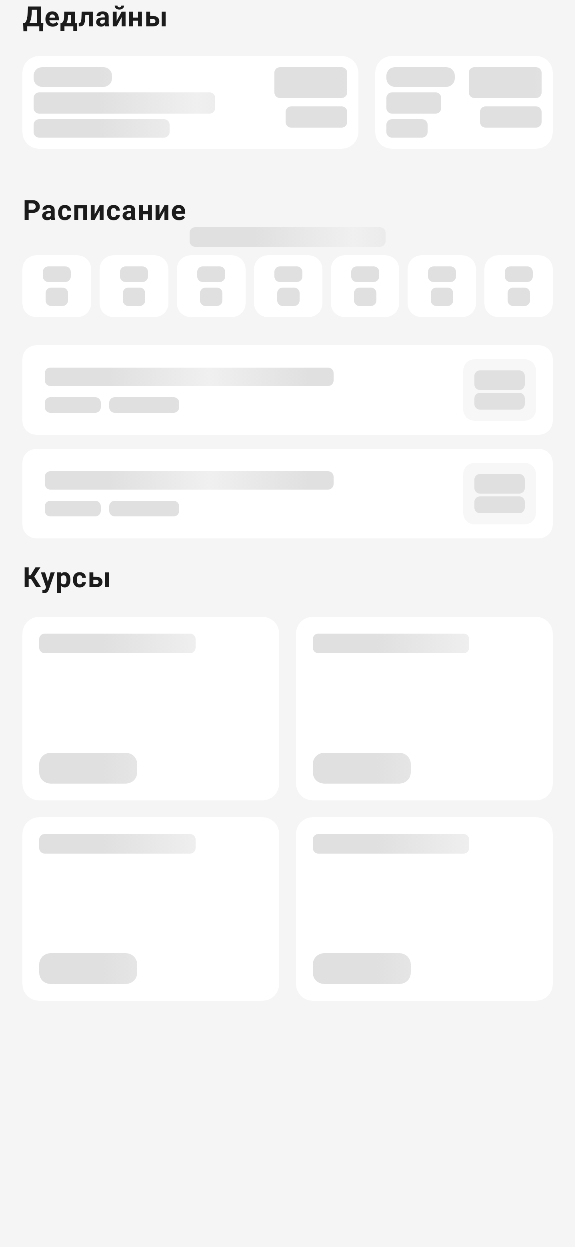
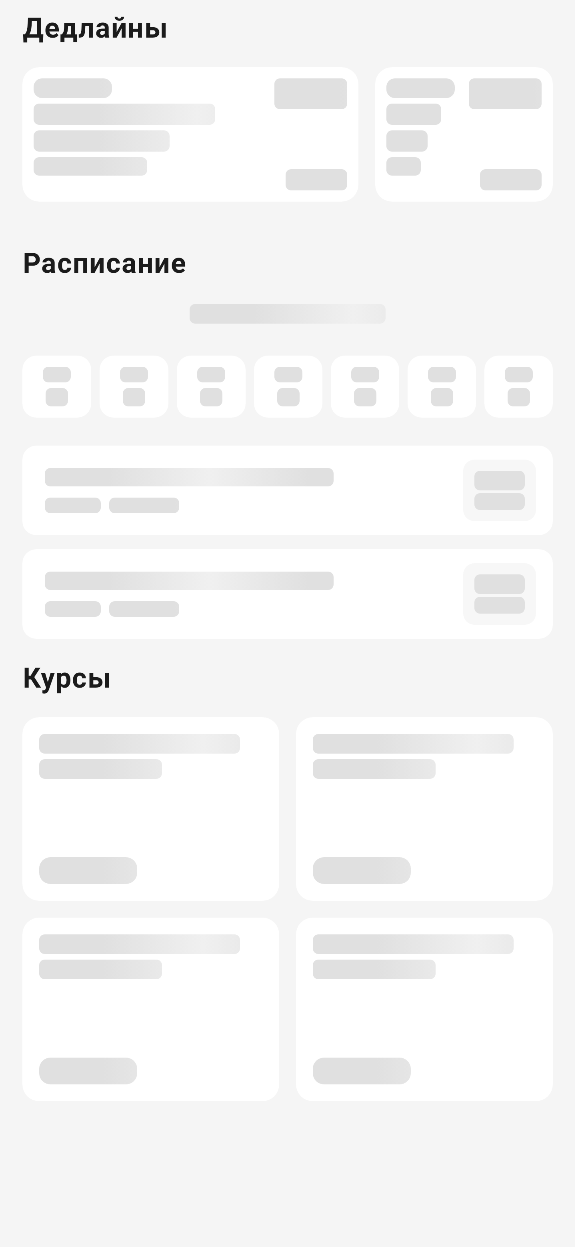
fix skeletons

diff --git a/shared/src/commonMain/kotlin/io/github/kroune/cumobile/presentation/home/ui/HomeSkeletons.kt b/shared/src/commonMain/kotlin/io/github/kroune/cumobile/presentation/home/ui/HomeSkeletons.kt
@@ -5,6 +5,7 @@ import androidx.compose.foundation.layout.Arrangement
 import androidx.compose.foundation.layout.Column
 import androidx.compose.foundation.layout.Row
 import androidx.compose.foundation.layout.Spacer
+import androidx.compose.foundation.layout.fillMaxHeight
 import androidx.compose.foundation.layout.fillMaxWidth
 import androidx.compose.foundation.layout.height
 import androidx.compose.foundation.layout.padding
@@ -21,14 +22,15 @@ import io.github.kroune.cumobile.presentation.common.ui.ShimmerBox
 /**
  * Skeleton placeholder for [DeadlineTaskCard].
  *
- * Matches the N3 layout: 240dp wide, 12dp corner radius, 8dp padding,
- * two columns — left (chip + course + title) and right (time + date).
+ * Fixed height chosen to match a typical filled card (chip + 2-line course + task)
+ * so the deadlines row doesn't jump when data replaces the skeleton.
  */
 @Composable
 internal fun DeadlineTaskCardSkeleton(modifier: Modifier = Modifier) {
     Row(
         modifier = modifier
             .width(240.dp)
+            .height(96.dp)
             .clip(RoundedCornerShape(12.dp))
             .background(AppTheme.colors.surface)
             .padding(8.dp),
@@ -39,11 +41,13 @@ internal fun DeadlineTaskCardSkeleton(modifier: Modifier = Modifier) {
         ) {
             ShimmerBox(Modifier.width(56.dp), height = 14.dp, cornerRadius = 6.dp)
             ShimmerBox(Modifier.fillMaxWidth(0.8f), height = 15.dp)
-            ShimmerBox(Modifier.fillMaxWidth(0.6f), height = 13.dp)
+            ShimmerBox(Modifier.fillMaxWidth(0.6f), height = 15.dp)
+            ShimmerBox(Modifier.fillMaxWidth(0.5f), height = 13.dp)
         }
         Column(
+            modifier = Modifier.fillMaxHeight(),
             horizontalAlignment = Alignment.End,
-            verticalArrangement = Arrangement.spacedBy(6.dp),
+            verticalArrangement = Arrangement.SpaceBetween,
         ) {
             ShimmerBox(Modifier.width(52.dp), height = 22.dp)
             ShimmerBox(Modifier.width(44.dp), height = 15.dp)
@@ -54,8 +58,9 @@ internal fun DeadlineTaskCardSkeleton(modifier: Modifier = Modifier) {
 /**
  * Skeleton placeholder for [CourseCard].
  *
- * Matches: fillMaxWidth, 12dp corner radius, 12dp padding,
- * name line + category chip.
+ * Real card puts course name at top and category chip at bottom via SpaceBetween
+ * inside an aspect-ratio 1.4 box. Two name lines mirror the 2-line maxLines in the
+ * real card, and chip dimensions match the real chip (11sp label + 4dp vertical padding).
  */
 @Composable
 internal fun CourseCardSkeleton(modifier: Modifier = Modifier) {
@@ -67,11 +72,13 @@ internal fun CourseCardSkeleton(modifier: Modifier = Modifier) {
             .padding(12.dp),
         verticalArrangement = Arrangement.SpaceBetween,
     ) {
-        ShimmerBox(Modifier.fillMaxWidth(0.7f), height = 14.dp)
-        Spacer(Modifier.height(8.dp))
+        Column(verticalArrangement = Arrangement.spacedBy(4.dp)) {
+            ShimmerBox(Modifier.fillMaxWidth(0.9f), height = 14.dp)
+            ShimmerBox(Modifier.fillMaxWidth(0.55f), height = 14.dp)
+        }
         ShimmerBox(
             Modifier.width(70.dp),
-            height = 22.dp,
+            height = 19.dp,
             cornerRadius = 8.dp,
         )
     }
@@ -80,7 +87,8 @@ internal fun CourseCardSkeleton(modifier: Modifier = Modifier) {
 /**
  * Skeleton placeholder for the week picker navigation.
  *
- * Matches: navigation header shimmer + 7 day pill shimmers.
+ * Navigation header height matches the real row's 48dp (set by Material3 IconButton's
+ * minimum interactive size) so the schedule doesn't shift down when controls render.
  */
 @Composable
 internal fun WeekPickerSkeleton(modifier: Modifier = Modifier) {
@@ -89,9 +97,9 @@ internal fun WeekPickerSkeleton(modifier: Modifier = Modifier) {
             .fillMaxWidth()
             .padding(horizontal = 16.dp),
     ) {
-        // Navigation header
         Row(
-            modifier = Modifier.fillMaxWidth(),
+            modifier = Modifier.fillMaxWidth().height(48.dp),
+            verticalAlignment = Alignment.CenterVertically,
             horizontalArrangement = Arrangement.Center,
         ) {
             ShimmerBox(Modifier.width(140.dp), height = 14.dp)
@@ -99,7 +107,6 @@ internal fun WeekPickerSkeleton(modifier: Modifier = Modifier) {
 
         Spacer(Modifier.height(6.dp))
 
-        // Day pills row
         Row(
             modifier = Modifier.fillMaxWidth(),
             horizontalArrangement = Arrangement.spacedBy(6.dp),
@@ -112,7 +119,7 @@ internal fun WeekPickerSkeleton(modifier: Modifier = Modifier) {
                         .background(AppTheme.colors.surface)
                         .padding(vertical = 8.dp),
                     horizontalAlignment = Alignment.CenterHorizontally,
-                    verticalArrangement = Arrangement.spacedBy(4.dp),
+                    verticalArrangement = Arrangement.spacedBy(4.dp, Alignment.CenterVertically),
                 ) {
                     ShimmerBox(Modifier.width(20.dp), height = 11.dp)
                     ShimmerBox(Modifier.width(16.dp), height = 13.dp)

diff --git a/shared/src/commonMain/kotlin/io/github/kroune/cumobile/presentation/home/ui/HomeScreen.kt b/shared/src/commonMain/kotlin/io/github/kroune/cumobile/presentation/home/ui/HomeScreen.kt
@@ -419,8 +419,11 @@ internal fun HomeScreenSkeleton(modifier: Modifier = Modifier) {
             .background(AppTheme.colors.background)
             .verticalScroll(rememberScrollState()),
     ) {
-        // Deadlines section
-        SectionHeader(title = "Дедлайны", count = 0)
+        SectionHeader(
+            title = "Дедлайны",
+            count = 0,
+            modifier = Modifier.padding(top = 8.dp),
+        )
         Row(
             modifier = Modifier
                 .fillMaxWidth()
